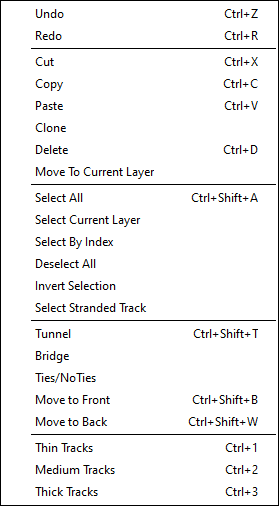
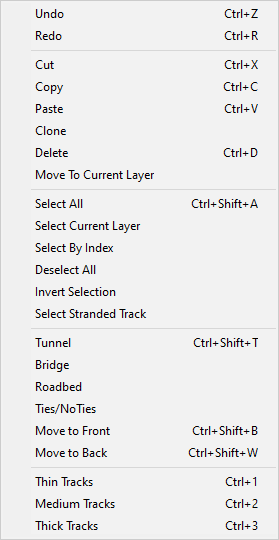
Update Help for roadbed.

diff --git a/app/bin/doption.c b/app/bin/doption.c
@@ -542,8 +542,8 @@ static paramData_t colorPLs[] = {
 	{ PD_COLORLIST, &profilePathColor, "profile", PDO_NOPSHUPD, NULL, N_("Profile Path"), 0, I2VP(CHANGE_MAIN) },
 	{ PD_COLORLIST, &exceptionColor, "exception", PDO_NOPSHUPD, NULL, N_("Exception Track"), 0, I2VP(CHANGE_MAIN) },
 	{ PD_COLORLIST, &tieColor, "tie", PDO_NOPSHUPD, NULL, N_("Track Ties"), 0, I2VP(CHANGE_MAIN) },
-	{ PD_COLORLIST, &bridgeColor, "bridge", PDO_NOPSHUPD, NULL, N_("Bridge base"), 0, I2VP(CHANGE_MAIN) },
-	{ PD_COLORLIST, &roadbedColor, "roadbed", PDO_NOPSHUPD, NULL, N_("Track roadbed"), 0, I2VP(CHANGE_MAIN) }
+	{ PD_COLORLIST, &bridgeColor, "bridge", PDO_NOPSHUPD, NULL, N_("Bridge Base"), 0, I2VP(CHANGE_MAIN) },
+	{ PD_COLORLIST, &roadbedColor, "roadbed", PDO_NOPSHUPD, NULL, N_("Track Roadbed"), 0, I2VP(CHANGE_MAIN) }
 };
 static paramGroup_t colorPG = { "rgbcolor", PGO_RECORD|PGO_PREFGROUP, colorPLs, COUNT( colorPLs ) };
 
